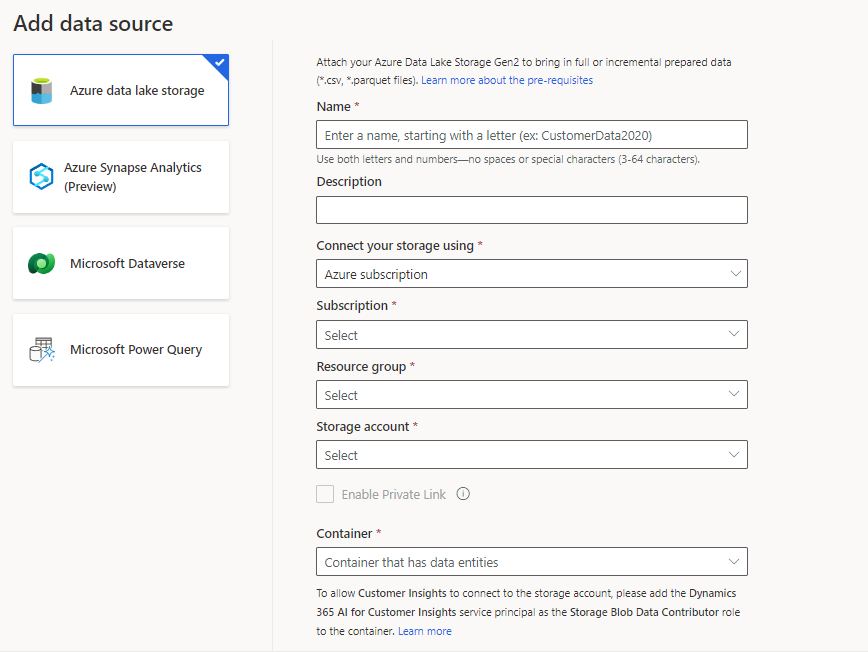
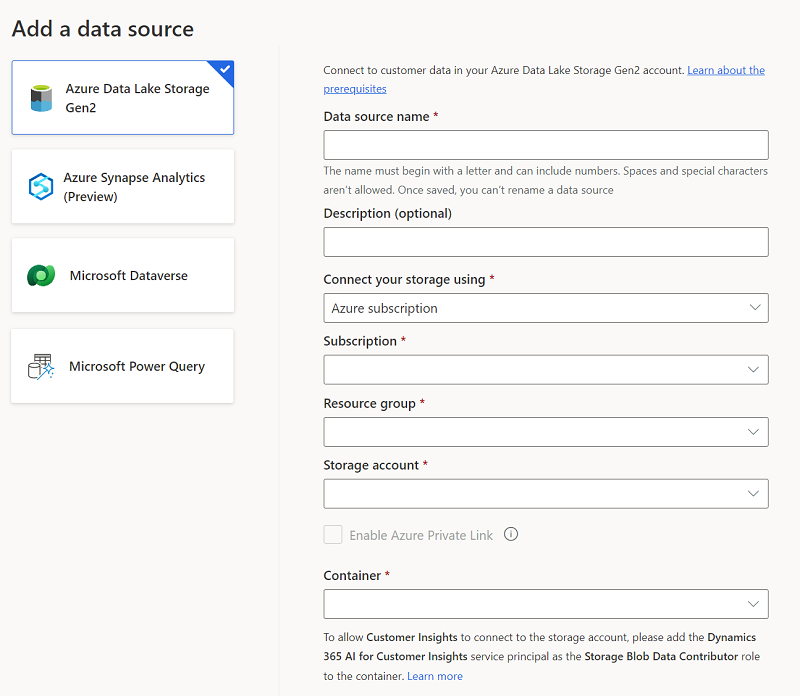
update UI text for ADLS update

diff --git a/ci-docs/connect-common-data-model.md b/ci-docs/connect-common-data-model.md
@@ -47,18 +47,18 @@ For optimal performance, Customer Insights recommends the size of a partition be
 
 1. Go to **Data** > **Data sources**.
 
-1. Select **Add data source**.
+1. Select **Add a data source**.
 
-1. Select **Azure data lake storage**.
+1. Select **Azure Data Lake Storage Gen 2**.
 
    :::image type="content" source="media/data_sources_ADLS.png" alt-text="Dialog box to enter connection details for Azure Data Lake." lightbox="media/data_sources_ADLS.png":::
 
-1. Enter a **Name** for the data source and an optional **Description**. The name uniquely identifies the data source and is referenced in downstream processes and can't be changed.
+1. Enter a **Data source name** and an optional **Description**. The name is referenced in downstream processes and it's not possible to change it after creating the data source.
 
 1. Choose one of the following options for **Connect your storage using**. For more information, see [Connect Customer Insights to an Azure Data Lake Storage Gen2 account with an Azure service principal](connect-service-principal.md).
 
    - **Azure resource**: Enter the **Resource Id**. Optionally, if you want to ingest data from a storage account through an Azure Private Link, select **Enable Private Link**. For more information, see [Private Links](security-overview.md#set-up-an-azure-private-link).
-   - **Azure subscription**: Select the **Subscription** and then the **Resource group** and **Storage account**. Optionally, if you want to ingest data from a storage account through an Azure Private Link, select **Enable Private Link**. For more information, see [Private Links](security-overview.md#set-up-an-azure-private-link).
+   - **Azure subscription**: Select the **Subscription** and then the **Resource group** and **Storage account**. Optionally, if you want to ingest data from a storage account through an Azure Private Link, select **Enable Azure Private Link**. For more information, see [Private Links](security-overview.md#set-up-an-azure-private-link).
   
    > [!NOTE]
    > You need one of the following roles either to the container or the storage account to create the data source:
@@ -93,12 +93,12 @@ For optimal performance, Customer Insights recommends the size of a partition be
    1. Optionally, change the partition pattern.
    1. Select **Close** to save and close the panel.
 
-1. Select the number of **Attributes** for each included table. The **Manage attributes** page displays.
+1. Select the number of **Columns** for each included table. The **Manage attributes** page displays.
 
    :::image type="content" source="media/dataprofiling-tables.png" alt-text="Dialog box to select data profiling.":::
 
-   1. Create new attributes, edit, or delete existing attributes. You can change the name, the data format, or add a semantic type.
-   1. To enable analytics and other capabilities, select **Data profiling** for the whole table or for specific attributes. By default, no table is enabled for data profiling.
+   1. Create new columns, edit, or delete existing columns. You can change the name, the data format, or add a semantic type.
+   1. To enable analytics and other capabilities, select **Data profiling** for the whole table or for specific columns. By default, no table is enabled for data profiling.
    1. Select **Done**.
 
 1. Select **Save**. The **Data sources** page opens showing the new data source in **Refreshing** status.
@@ -109,7 +109,7 @@ Loading data can take time. After a successful refresh, the ingested data can be
 
 ### Create a new schema file
 
-1. Select **New schema file**.
+1. Select **Create schema file**.
 
 1. Enter a name for the file and select **Save**.
 
@@ -131,13 +131,13 @@ Loading data can take time. After a successful refresh, the ingested data can be
 
    1. Ensure the data format is correct for each attribute.
 
-   1. To enable analytics and other capabilities, select **Data profiling** for the whole table or for specific attributes. By default, no table is enabled for data profiling.
+   1. To enable analytics and other capabilities, select **Data profiling** for the whole table or for specific columns. By default, no table is enabled for data profiling.
 
       :::image type="content" source="media/dataprofiling-tables.png" alt-text="Dialog box to select data profiling.":::
 
    1. Select **Done**. The **Select tables** page displays.
 
-1. Continue to add tables and attributes, if applicable.
+1. Continue to add tables and columns, if applicable.
 
 1. After all tables have been added, select **Include** to include the tables in the data source ingestion.
 
@@ -165,19 +165,17 @@ You can update the *Connect to storage account using* option. For more informati
 
 1. Next to the data source you'd like to update, select  **Edit**.
 
-   :::image type="content" source="media/data_sources_edit_ADLS.png" alt-text="Dialog box to edit Azure Data Lake data source.":::
-
 1. Change any of the following information:
 
    - **Description**
    - **Connect your storage using** and connection information. You can't change **Container** information when updating the connection.
       > [!NOTE]
       > One of the following roles must be assigned to the storage account or container:
-        > - Storage Blob Data Reader
-        > - Storage Blob Data Owner
-        > - Storage Blob Data Contributor
+      > - Storage Blob Data Reader
+      > - Storage Blob Data Owner
+      > - Storage Blob Data Contributor
 
-   - **Enable Private Link** if you want to ingest data from a storage account through an Azure Private Link. For more information, see [Private Links](security-overview.md#set-up-an-azure-private-link).
+   - **Enable Azure Private Link** if you want to ingest data from a storage account through an Azure Private Link. For more information, see [Private Links](security-overview.md#set-up-an-azure-private-link).
 
 1. Select **Next**.
 1. Change any of the following:
@@ -193,9 +191,9 @@ You can update the *Connect to storage account using* option. For more informati
      > [!NOTE]
      > Always keep the table name in Customer Insights the same as the table name inside the model.json or manifest.json file after ingestion. Customer Insights validates all table names with the model.json or manifest.json during every system refresh. If a table name is changed either inside Customer Insights or outside, an error occurs because Customer Insights cannot find the new table name in the .json file. If an ingested table name was accidentally changed, edit the table name in Customer Insights to match the name in the .json file.
 
-1. Select **Attributes** to add or change attributes, or to enable data profiling. Then select **Done**.
+1. Select **Columns** to add or change them, or to enable data profiling. Then select **Done**.
 
-1. Click **Save** to apply your changes and return to the **Data sources** page.
+1. Select**Save** to apply your changes and return to the **Data sources** page.
 
    [!INCLUDE [progress-details-include](includes/progress-details-pane.md)]
 

diff --git a/ci-docs/home.md b/ci-docs/home.md
@@ -43,7 +43,7 @@ Your profile picture opens the **Account manager** for your Microsoft 365 profil
 
 This section contains cards that help you walk through the process of setting up your Customer Insights environment.
 
-1. The **Add data** card assists you with your data import. Customer Insights supports [several options to bring in data about your customers](data-sources.md). Select **Add data sources** to get started.
+1. The **Add data** card assists you with your data import. Customer Insights supports [several options to bring in data about your customers](data-sources.md). Select **Add a data sources** to get started.
 1. Once the initial data import successfully completes, you can use the **Unify data** card to harmonize the data and [create unified customer profiles](data-unification.md) from disparate sources. 
 1. With unified customer profiles in place, it's time to review the **Analyze data** options and get additional insights. Give it a try to create [business measures](measures.md) to track KPIs, [define segments](segments.md) to reach specific audiences, or [configure predictions](predictions-overview.md) with the help of AI.
 1. Now that your customer data is imported, unified, and neatly structured, you use our [various export destinations](export-destinations.md) to take action on the data. Select **Add connections** to connect your favorite services. For example, export the data to Dynamics 365 Marketing to create outbound marketing campaigns or build customer journeys. 

diff --git a/ci-docs/connect-synapse.md b/ci-docs/connect-synapse.md
@@ -48,7 +48,7 @@ For more information, see [Azure Synapse overview](/azure/synapse-analytics/over
 
 1. Go to **Data** > **Data sources**.
 
-1. Select **Add data source**.
+1. Select **Add a data source**.
 
 1. Choose the **Azure Synapse Analytics (Preview)** method.
 

diff --git a/ci-docs/connect-power-query.md b/ci-docs/connect-power-query.md
@@ -29,7 +29,7 @@ To securely connect data in a private network, Power Query supports the use of [
 
 1. Go to **Data** > **Data sources**.
 
-1. Select **Add data source**.
+1. Select **Add a data source**.
 
 1. Select **Microsoft Power Query**.
 

diff --git a/ci-docs/connect-dataverse-managed-lake.md b/ci-docs/connect-dataverse-managed-lake.md
@@ -31,7 +31,7 @@ Only one data source of an environment can simultaneously use the same Dataverse
 
 1. Go to **Data** > **Data sources**.
 
-1. Select **Add data source**.
+1. Select **Add a data source**.
 
 1. Select **Microsoft Dataverse**.
 
